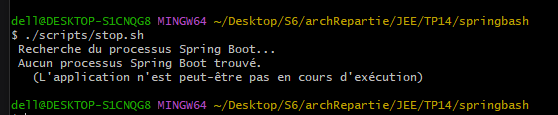
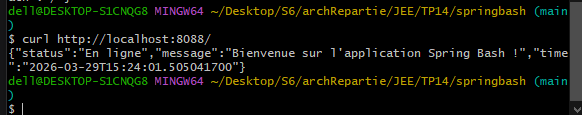
ajouter le controlleur de test et changer le port

diff --git a/springbash/src/main/java/ma/ens/springbash/web/TestController.java b/springbash/src/main/java/ma/ens/springbash/web/TestController.java
@@ -1,0 +1,27 @@
+package ma.ens.springbash.web;
+
+import org.springframework.web.bind.annotation.GetMapping;
+import org.springframework.web.bind.annotation.RestController;
+import java.time.LocalDateTime;
+import java.util.Map;
+
+@RestController
+public class TestController {
+
+    @GetMapping("/")
+    public Map<String, String> home() {
+        return Map.of(
+                "message", "Bienvenue sur l'application Spring Bash !",
+                "status", "En ligne",
+                "time", LocalDateTime.now().toString()
+        );
+    }
+
+    @GetMapping("/health")
+    public Map<String, String> health() {
+        return Map.of(
+                "status", "UP",
+                "message", "L'application fonctionne correctement"
+        );
+    }
+}

diff --git a/springbash/src/main/java/ma/ens/springbash/SpringbashApplication.java b/springbash/src/main/java/ma/ens/springbash/SpringbashApplication.java
@@ -8,6 +8,6 @@ public class SpringbashApplication {
 
 	public static void main(String[] args) {
 		SpringApplication.run(SpringbashApplication.class, args);
+		System.out.println("✅ Application démarrée sur http://localhost:8090");
 	}
-
 }
